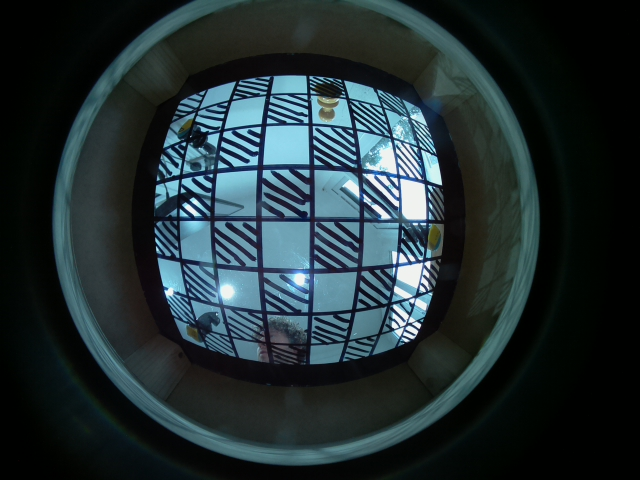
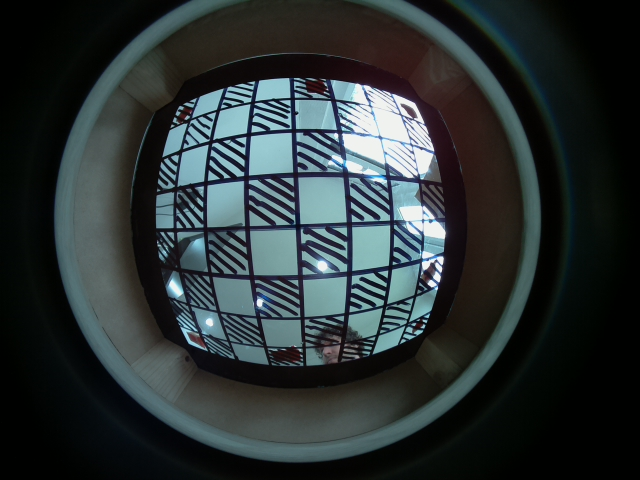
removed images

diff --git a/detectpieces.py b/detectpieces.py
@@ -2,7 +2,7 @@ import cv2
 import numpy as np
 
 # Read the image
-image = cv2.imread('./camcalib/undistorted_image2.jpg')
+image = cv2.imread('./camcalib/undistorted_image.jpg')
 
 # Specify the crop dimensions (x, y, w, h)
 crop_rectangle = (90, 0, 440, 450)
@@ -42,7 +42,7 @@ for i in range(0, w, step_size_x):
         # Calculate the proportion of red pixels
         red_pixels = np.sum(cell == 255)
         total_pixels = np.size(cell)
-        if red_pixels / total_pixels > 0.065:  # Modify this threshold based on your specific needs
+        if red_pixels / total_pixels > 0.020:  # Modify this threshold based on your specific needs
             cv2.rectangle(cropped_image, (i, j), (i+step_size_x, j+step_size_y), (0, 0, 255), 2)
 
     cv2.line(red_mask, (i, 0), (i, h), (0, 255, 0), 1)
